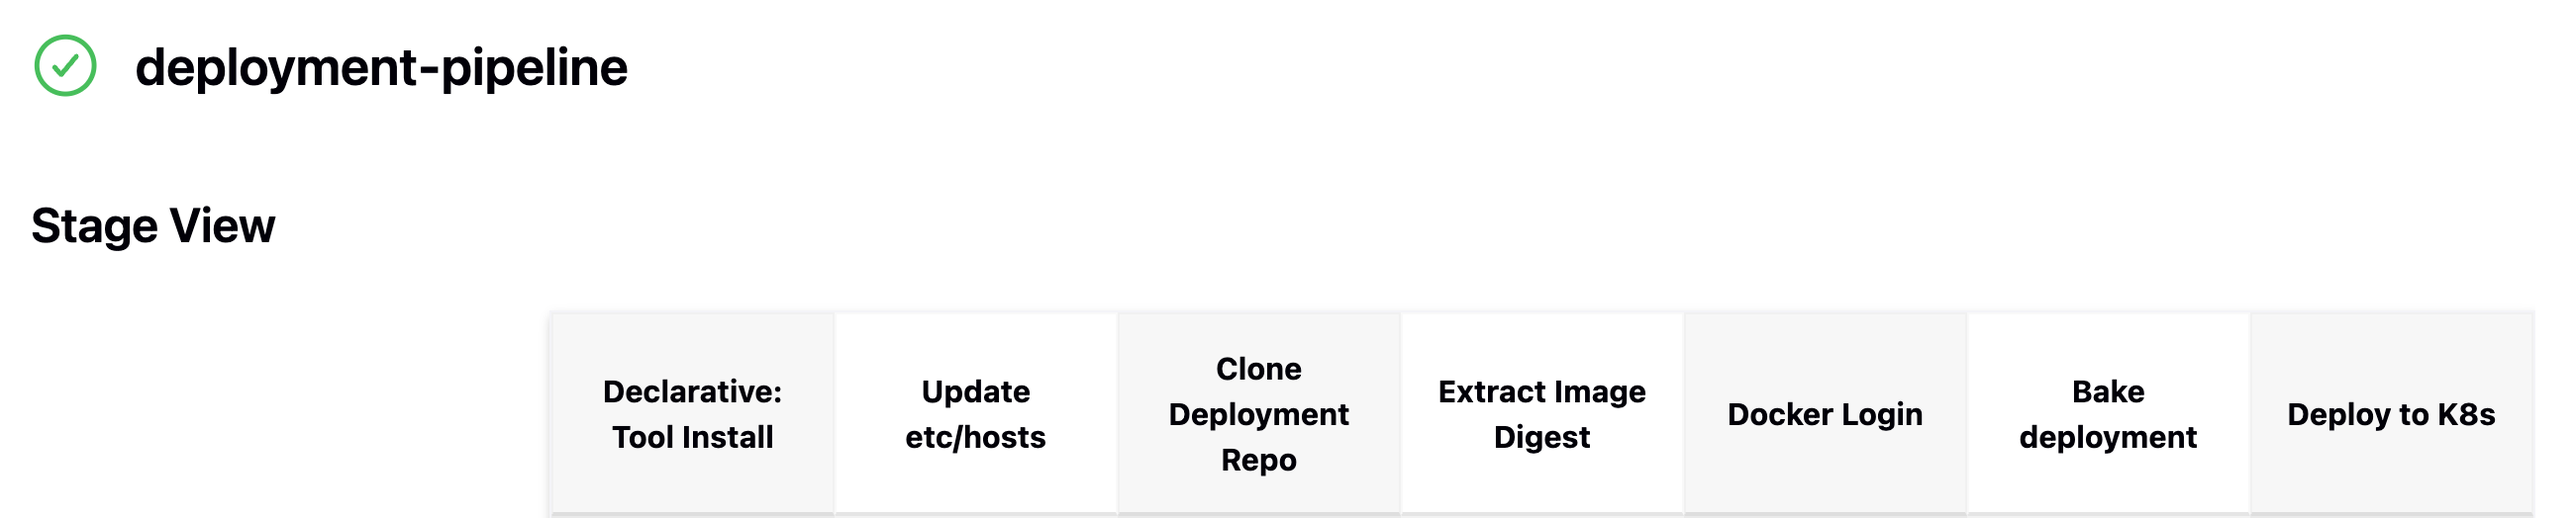
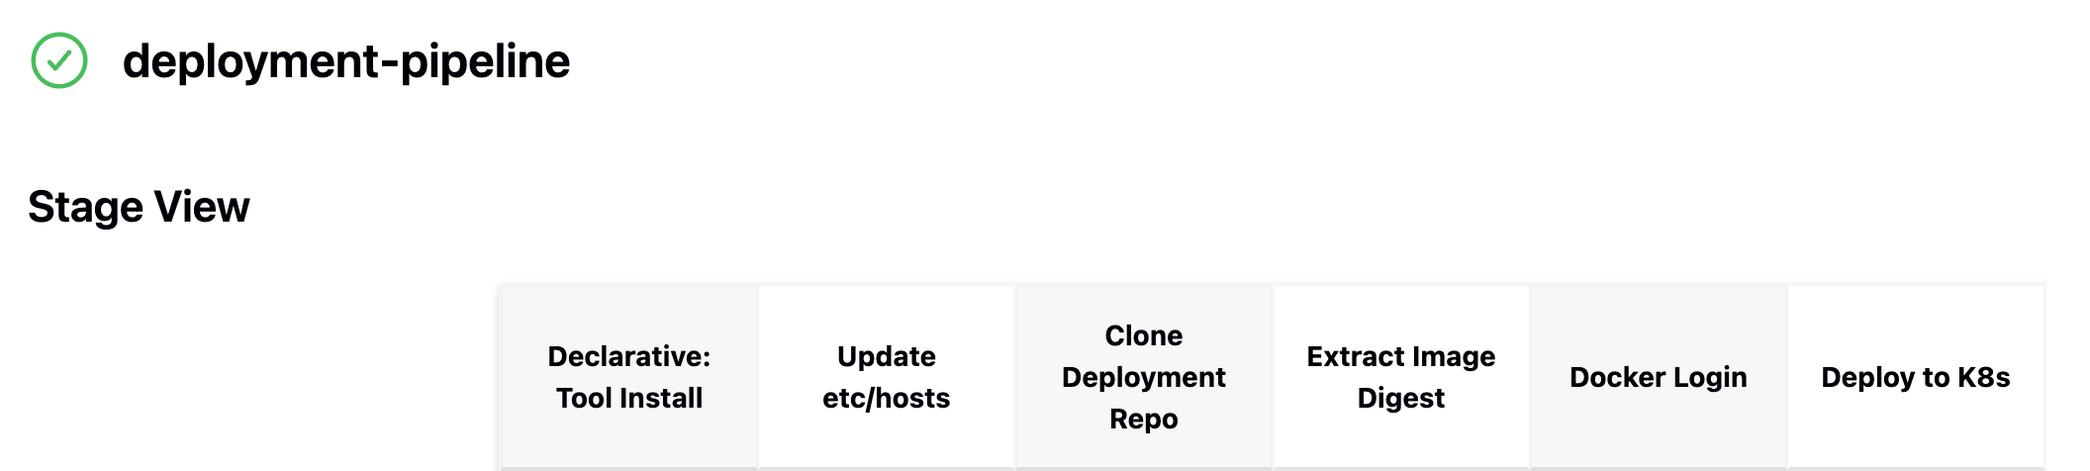
Add k8s CICD diagram

diff --git a/en/docs/install-and-setup/setup/deployment/mi-cicd-k8s.md b/en/docs/install-and-setup/setup/deployment/mi-cicd-k8s.md
@@ -5,6 +5,8 @@ This document explains the Continuous Integration and Continuous Deployment (CI/
 !!! Note
     This pipeline setup is provided for demonstration purposes using Jenkins. In production environments, you may implement similar flows using other CI/CD platforms such as GitHub Actions, GitLab CI, Azure DevOps etc.
 
+<a href="{{base_path}}/assets/img/setup-and-install/mi-cicd-K8s.png"><img src="{{base_path}}/assets/img/setup-and-install/mi-cicd-K8s.png" alt="CICD pipeline"></a>
+
 ## Integration Project Build Job
 
 - You need to maintain one Jenkins job per integration project repository.
@@ -36,7 +38,7 @@ The integration project build pipeline conatins the following main 5 stages:
 
 ### Pipeline Steps
 
-The deployment pipeline contains the following four main stages:
+The deployment pipeline contains the following four three stages:
 
 <a href="{{base_path}}/assets/img/setup-and-install/deployment_pipeline.png"><img src="{{base_path}}/assets/img/setup-and-install/deployment_pipeline.png" alt="Deployment pipeline" width="70%"></a>
 
@@ -49,9 +51,7 @@ The deployment pipeline contains the following four main stages:
 
 2. **Clone Deployment Repository**: Pulls the latest deployment repository content.
 
-3. **Bake deployment**: Uses `helm template` to generate Kubernetes manifests from the Helm chart.
-
-4. **Deploy to K8s**: Applies the backed artifacts to a local or remote Kubernetes cluster.
+3. **Deploy to K8s**: Deploy the Helm chart to a local or remote Kubernetes cluster.
 
 ## Setting up the environment
 
@@ -61,7 +61,7 @@ To configure the CI/CD pipeline for deploying WSO2 Micro Integrator integrations
 
 #### Integration project
 
-You should have an integration project created using the [Micro Integrator Extension for VS Code]().
+You should have an integration project created using the [Micro Integrator Extension for VS Code]({{base_path}}/develop/mi-for-vscode/mi-for-vscode-overview/).
 
 **Update the `pom.xml` with SCM information**
 
@@ -86,9 +86,9 @@ This is required for the Maven Release Plugin to tag and push versions correctly
 
 Maintain a separate GitHub repository to store deployment configurations. This repository should include:
 
-1. A clone of the [MI Helm Chart]()
+1. A clone of the <a target="_blank" href="https://github.com/wso2/helm-mi/tree/4.4.x">MI Helm Chart</a>.
 
-2. An updated `mi-values.yaml` file to suit your environment. For configuration details, refer to the [Helm Chart Configuration]() Guide.
+2. An updated `mi-values.yaml` file to suit your environment. For configuration details, refer to the [Configure Helm charts for Micro Integrator]({{base_path}}/install-and-setup/setup/deployment/configuring-helm-charts/) guide.
 
 3. A `mi-config.json` file inside the `mi/` directory with the following initial content:
 
